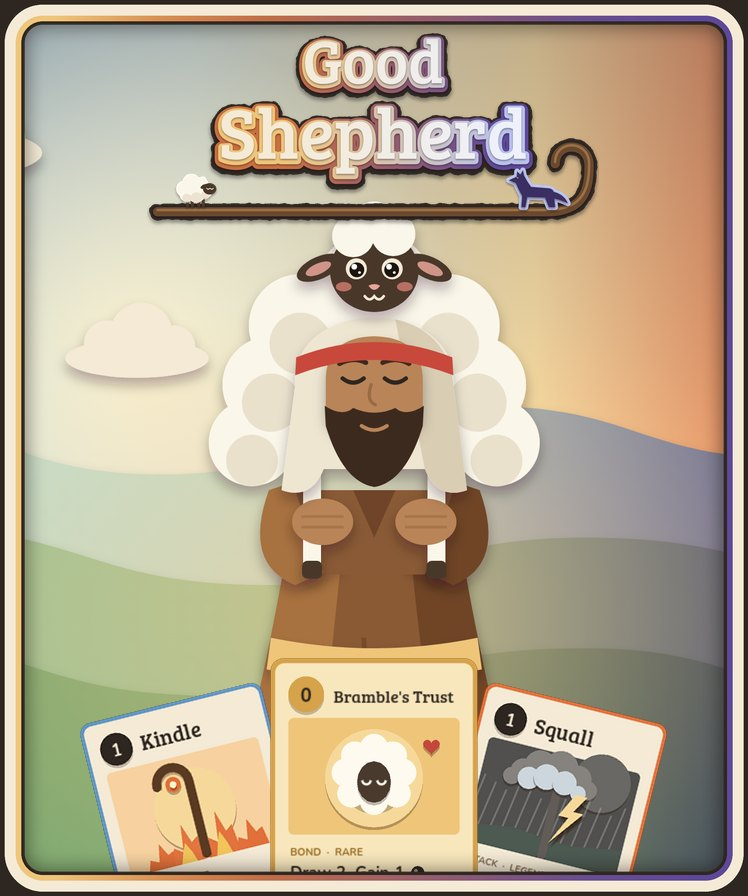
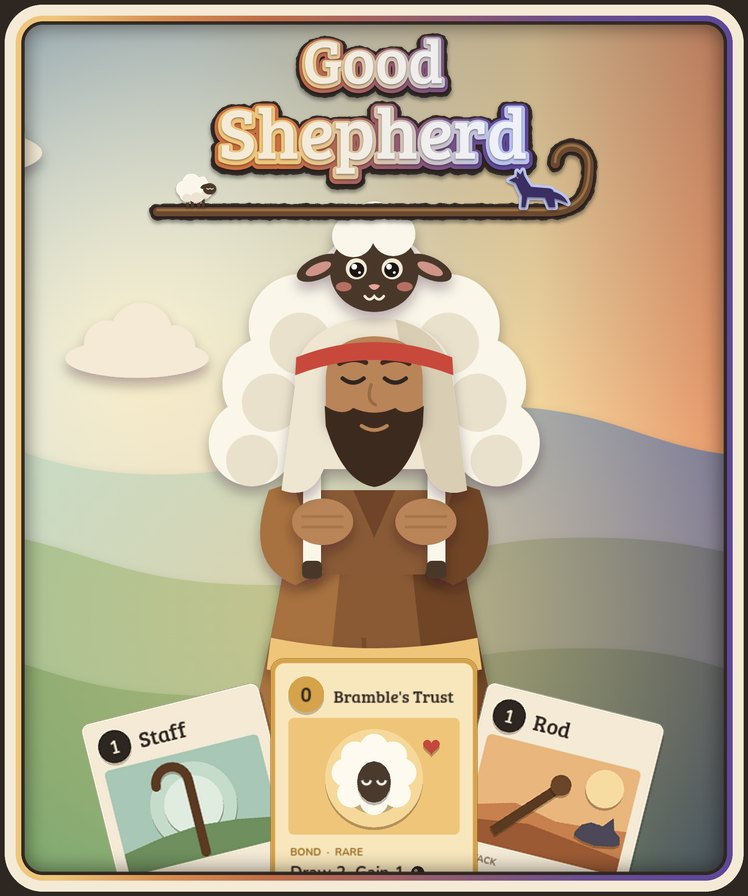
Capsule cards: the basic Staff and Rod either side of the bond card
Claude-Session: https://claude.ai/code/session_01VpcujLBvCFhyXTsRkCLDUJ

Changed region(s): [[0.615, 0.75, 0.8917, 1.0], [0.0922, 0.75, 0.369, 1.0]]

diff --git a/tools/capsule_lab.py b/tools/capsule_lab.py
@@ -54,22 +54,22 @@ def eyes(x, y, s=1.0):
 # height, tilt in degrees), all as fractions of the capsule.
 CONCEPTS = {
     # The chosen capsule: the shepherd in daylight with the lamb upright on his shoulders,
-    # and three of the game's own cards (a fire staff's, a sheep's bond, a storm staff's).
+    # and three of the game's own cards (the Staff, a sheep's bond, the Rod).
     "capsule": {
         "say": "The shepherd, the lamb, a hand of cards",
         "extra": f'<ellipse cx="1500" cy="1500" rx="900" ry="620" fill="url(#lampspill)"/>' + S.cloud(1050, 1010, 0.8) + S.cloud(700, 620, 1.0) + S.shepherd(1500, 1960, 1.0, "upright"),
         "header": {"crop": (980, 735, 900), "logo": (0.50, 0.05, 0.47, 0.50), "which": "stack",
-                   "cards": [("kindle", 0.585, 0.95, 0.62, -13), ("squall", 0.895, 0.95, 0.62, 13), ("bond", 0.74, 0.88, 0.66, 0)]},
+                   "cards": [("staff", 0.585, 0.95, 0.62, -13), ("rod", 0.895, 0.95, 0.62, 13), ("bond", 0.74, 0.88, 0.66, 0)]},
         "main": {"crop": (980, 735, 900), "logo": (0.50, 0.05, 0.47, 0.50), "which": "stack",
-                 "cards": [("kindle", 0.585, 0.95, 0.60, -13), ("squall", 0.895, 0.95, 0.60, 13), ("bond", 0.74, 0.88, 0.64, 0)]},
+                 "cards": [("staff", 0.585, 0.95, 0.60, -13), ("rod", 0.895, 0.95, 0.60, 13), ("bond", 0.74, 0.88, 0.64, 0)]},
         "package": {"crop": (880, 740, 880), "logo": (0.36, 0.08, 0.36, 0.84), "which": "stack",
-                    "cards": [("kindle", 0.775, 0.80, 0.72, -12), ("squall", 0.925, 0.80, 0.72, 12), ("bond", 0.85, 0.72, 0.78, 0)]},
+                    "cards": [("staff", 0.775, 0.80, 0.72, -12), ("rod", 0.925, 0.80, 0.72, 12), ("bond", 0.85, 0.72, 0.78, 0)]},
         "small": {"crop": (1090, 735, 700), "logo": (0.30, 0.08, 0.50, 0.84), "which": "line",
                   "cards": [("bond", 0.905, 0.62, 1.05, 8)]},
         "vertical": {"crop": (790, 330, 1700), "logo": (0.08, 0.035, 0.84, 0.22), "which": "stack",
-                     "cards": [("kindle", 0.27, 0.93, 0.30, -14), ("squall", 0.73, 0.93, 0.30, 14), ("bond", 0.5, 0.90, 0.33, 0)]},
+                     "cards": [("staff", 0.27, 0.93, 0.30, -14), ("rod", 0.73, 0.93, 0.30, 14), ("bond", 0.5, 0.90, 0.33, 0)]},
         "library": {"crop": (930, 330, 1700), "logo": (0.06, 0.04, 0.88, 0.21), "which": "stack",
-                    "cards": [("kindle", 0.24, 0.93, 0.29, -14), ("squall", 0.76, 0.93, 0.29, 14), ("bond", 0.5, 0.90, 0.32, 0)]},
+                    "cards": [("staff", 0.24, 0.93, 0.29, -14), ("rod", 0.76, 0.93, 0.29, 14), ("bond", 0.5, 0.90, 0.32, 0)]},
     },
 }
 SIZES = {"header": (920, 430), "small": (462, 174), "main": (1232, 706), "package": (1414, 464), "vertical": (748, 896), "library": (600, 900)}
